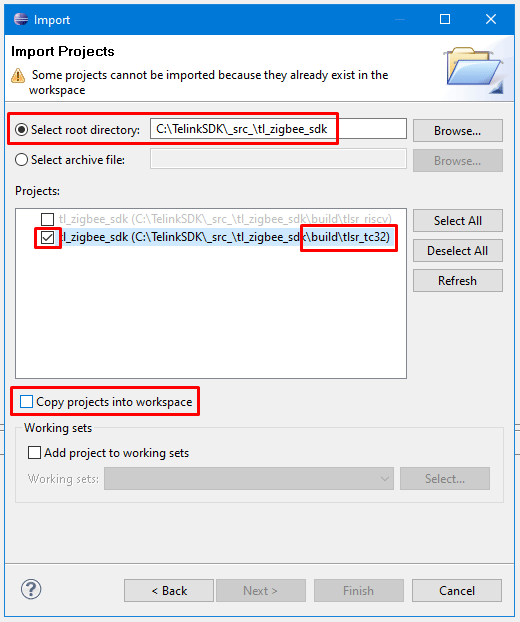
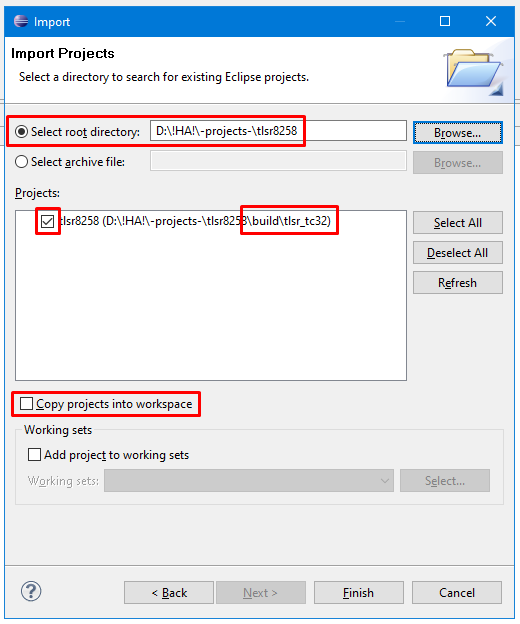
new pics

diff --git a/README.md b/README.md
@@ -15,25 +15,26 @@ Before firmware update, adjust the DIP switch:
 ![](img/upload_mode.png)
 
 1) Install Telink IDE – based on C/C++ Eclipse IDE (https://wiki.telink-semi.cn/wiki/IDE-and-Tools/IDE-for-TLSR8-Chips/)  
-2) Unpack Zigbee_SDK-LilyGO.zip (https://github.com/Xinyuan-LilyGO/telink-zigbee-sdk) into C:\TelinkSDK\_src_  
+2) Unpack project zip-file into the folder  
 ![](img/_hciDevice_ZR_8258_01.png)
 
 3) Import as Existing Project  
 ![](img/_hciDevice_ZR_8258_02.png)
 
-4) Select C:\TelinkSDK\_src_\tl_zigbee_sdk folder, check «…\build\tlsr_tc32» project, DO NOT check «Copy projects into workspace» (path settings for the project may be incorrect!)  
+4) Select "tlsr8258" folder, check «…\build\tlsr_tc32» project, DO NOT check «Copy projects into workspace» (path settings for the project may be incorrect!)  
 ![](img/_hciDevice_ZR_8258_03.png)
 
-5) Source code can be found in C:\TelinkSDK\_src_\tl_zigbee_sdk\apps\hciDevice folder  
-
-6) Choose under «Build» menu (hammer icon) the item «_hciDevice_ZR_8258 (Route-8258)»  
+5) Source code can be found in ..\tlsr8258\apps\hciDevice_ZR_8258 folder  
 ![](img/_hciDevice_ZR_8258_04.png)
 
-7) Make sure, that the build was successful  
+6) Choose under «Build» menu (hammer icon) the item «_hciDevice_ZR_8258 (Route-8258)»  
 ![](img/_hciDevice_ZR_8258_05.png)
 
-8) .BIN-file can be found here:  
+7) Make sure, that the build was successful  
 ![](img/_hciDevice_ZR_8258_06.png)
+
+8) .BIN-file can be found here:  
+![](img/_hciDevice_ZR_8258_07.png)
 
 9) Flash .BIN-file using TlsrComSwireWriter (https://github.com/pvvx/TlsrComSwireWriter)  
 ![](img/TLSR8258_Flash_01.png)
